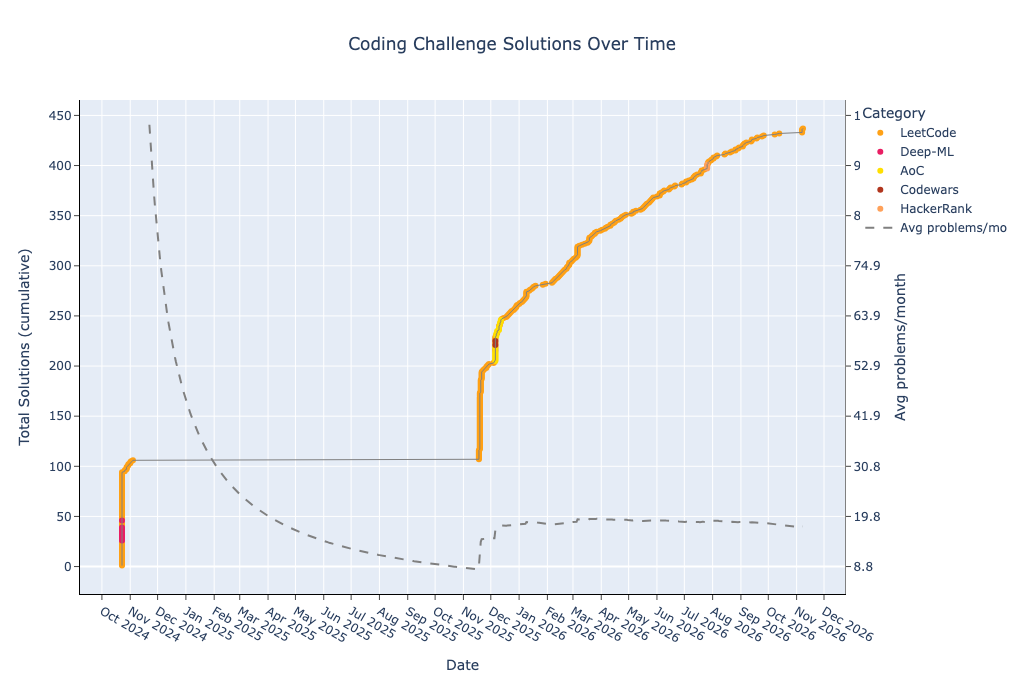
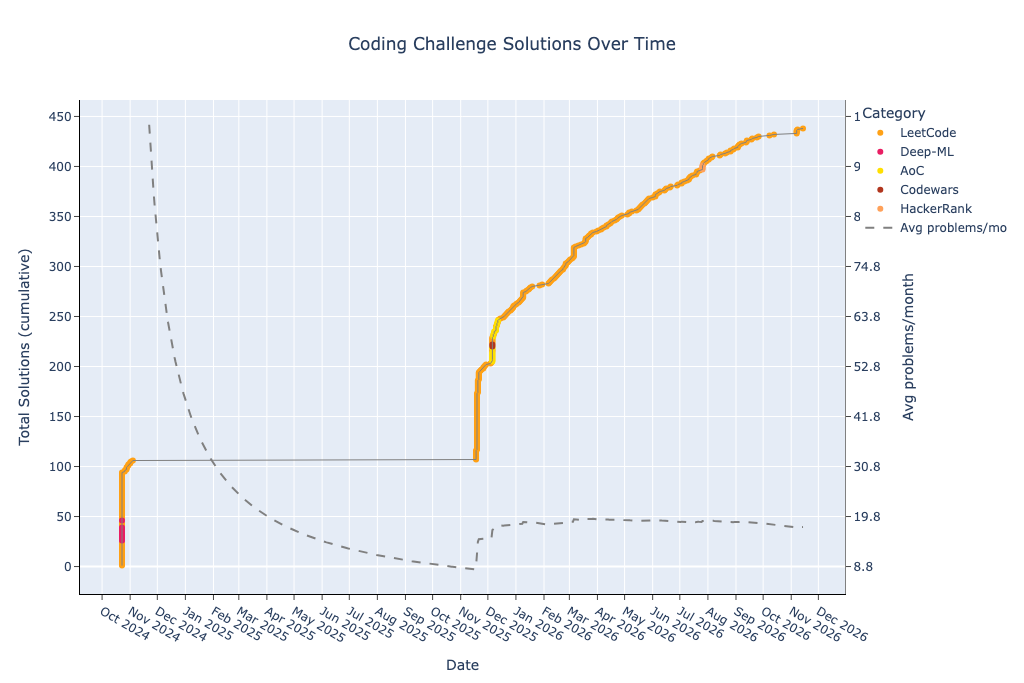
Regenerate README

diff --git a/README.md b/README.md
@@ -40,10 +40,10 @@ This repository contains a collection of coding problems solved on various platf
 | deep-ml-medium | 5 | 69 | 13 | 5 | 0 | 1 | 7 | 0 | 0 | 0 | 8 | 2 | 0 | 0 | 0 | 0 | 0 | 0 |
 | hackerrank-easy | 2 | 17 | 8 | 2 | 0 | 4 | 1 | 0 | 0 | 0 | 2 | 0 | 0 | 0 | 0 | 0 | 0 | 0 |
 | hackerrank-medium | 3 | 57 | 19 | 4 | 1 | 3 | 7 | 0 | 0 | 0 | 6 | 0 | 0 | 2 | 0 | 0 | 1 | 0 |
-| leetcode-easy | 139 | 2264 | 16 | 190 | 6 | 182 | 173 | 51 | 6 | 17 | 227 | 4 | 7 | 16 | 1 | 0 | 16 | 0 |
+| leetcode-easy | 140 | 2282 | 16 | 191 | 6 | 185 | 175 | 51 | 6 | 17 | 229 | 4 | 7 | 16 | 1 | 0 | 16 | 0 |
 | leetcode-medium | 216 | 5488 | 25 | 379 | 9 | 557 | 417 | 124 | 22 | 58 | 464 | 7 | 44 | 68 | 12 | 31 | 33 | 7 |
 | leetcode-hard | 37 | 1164 | 31 | 67 | 5 | 109 | 99 | 24 | 11 | 17 | 84 | 3 | 7 | 15 | 8 | 5 | 9 | 9 |
-| **total** | 437 | 10414 | 23 | 749 | 22 | 991 | 865 | 205 | 40 | 105 | 892 | 27 | 69 | 117 | 23 | 41 | 62 | 16 |
+| **total** | 438 | 10432 | 23 | 750 | 22 | 994 | 867 | 205 | 40 | 105 | 894 | 27 | 69 | 117 | 23 | 41 | 62 | 16 |
 
 ---
 
@@ -51,6 +51,7 @@ This repository contains a collection of coding problems solved on various platf
 
 | Date | Type | Challenge | Problem | Solution |
 | --- | --- | --- | --- | --- |
+| 2026-11-14 | LeetCode Easy | Minimum Positive Sum Subarray | [leetcode.com](https://leetcode.com/problems/minimum-positive-sum-subarray/) | [python](leetcode/easy/3364.%20Minimum%20Positive%20Sum%20Subarray.py) |
 | 2026-11-08 | LeetCode Medium | Count Servers that Communicate | [leetcode.com](https://leetcode.com/problems/count-servers-that-communicate/) | [python](leetcode/medium/1267.%20Count%20Servers%20that%20Communicate.py) |
 | 2026-11-07 | LeetCode Medium | Minimum Moves to Equal Array Elements II | [leetcode.com](https://leetcode.com/problems/minimum-moves-to-equal-array-elements-ii/) | [python](leetcode/medium/462.%20Minimum%20Moves%20to%20Equal%20Array%20Elements%20II.py) |
 | 2026-11-07 | LeetCode Medium | Count Islands With Total Value Divisible by K | [leetcode.com](https://leetcode.com/problems/count-islands-with-total-value-divisible-by-k) | [python](leetcode/medium/3619.%20Count%20Islands%20With%20Total%20Value%20Divisible%20by%20K.py) |
@@ -60,7 +61,6 @@ This repository contains a collection of coding problems solved on various platf
 | 2026-10-13 | LeetCode Medium | Maximum Alternating Sum of Squares | [leetcode.com](https://leetcode.com/problems/maximum-alternating-sum-of-squares) | [python](leetcode/medium/3727.%20Maximum%20Alternating%20Sum%20of%20Squares.py) |
 | 2026-10-08 | LeetCode Medium | Score of Parentheses | [leetcode.com](https://leetcode.com/problems/score-of-parentheses) | [python](leetcode/medium/856.%20Score%20of%20Parentheses.py) |
 | 2026-10-08 | LeetCode Medium | Score of Parentheses | [leetcode.com](https://leetcode.com/problems/score-of-parentheses) | [python](leetcode/medium/856.%20Score%20of%20Parentheses.py) |
-| 2026-09-26 | LeetCode Medium | Evaluate the Bracket Pairs of a String | [leetcode.com](https://leetcode.com/problems/evaluate-the-bracket-pairs-of-a-string/) | [python](leetcode/medium/1807.%20Evaluate%20the%20Bracket%20Pairs%20of%20a%20String.py) |
 # Advent of Code
 ### 2025
 | Day | Challenge | Time | Space | Problem | Solution |
@@ -241,6 +241,7 @@ This repository contains a collection of coding problems solved on various platf
 | 3345 | Smallest Divisible Digit Product I | O(log n) | O(log n) | [leetcode.com](https://leetcode.com/problems/smallest-divisible-digit-product-i/) | [python](leetcode/easy/3345.%20Smallest%20Divisible%20Digit%20Product%20I.py) |
 | 3349 | Adjacent Increasing Subarrays Detection I | O(n) | O(1) | [leetcode.com](https://leetcode.com/problems/adjacent-increasing-subarrays-detection-i/) | [python](leetcode/easy/3349.%20Adjacent%20Increasing%20Subarrays%20Detection%20I.py) |
 | 3354 | Make Array Elements Equal to Zero | O(n) | O(1) | [leetcode.com](https://leetcode.com/problems/make-array-elements-equal-to-zero/) | [python](leetcode/easy/3354.%20Make%20Array%20Elements%20Equal%20to%20Zero.py) |
+| 3364 | Minimum Positive Sum Subarray | O(n*m) | O(1) | [leetcode.com](https://leetcode.com/problems/minimum-positive-sum-subarray/) | [python](leetcode/easy/3364.%20Minimum%20Positive%20Sum%20Subarray.py) |
 | 3370 | Smallest Number With All Set Bits | O(n) | O(1) | [leetcode.com](https://leetcode.com/problems/smallest-number-with-all-set-bits/) | [python](leetcode/easy/3370.%20Smallest%20Number%20With%20All%20Set%20Bits.py) |
 | 3432 | Count Partitions with Even Sum Difference | O(n) | O(1) | [leetcode.com](https://leetcode.com/problems/count-partitions-with-even-sum-difference/) | [python](leetcode/easy/3432.%20Count%20Partitions%20with%20Even%20Sum%20Difference.py) |
 | 3461 | Check If Digits Are Equal in String After Operations I | O(n) | O(1) | [leetcode.com](https://leetcode.com/problems/check-if-digits-are-equal-in-string-after-operations-i/) | [python](leetcode/easy/3461.%20Check%20If%20Digits%20Are%20Equal%20in%20String%20After%20Operations%20I.py) |

diff --git a/CHANGES.md b/CHANGES.md
@@ -4,6 +4,7 @@
 
 | Date | Type | Challenge | Problem | Solution |
 | --- | --- | --- | --- | --- |
+| 2026-11-14 | LeetCode Easy | Minimum Positive Sum Subarray | [leetcode.com](https://leetcode.com/problems/minimum-positive-sum-subarray/) | [python](leetcode/easy/3364.%20Minimum%20Positive%20Sum%20Subarray.py) |
 | 2026-11-08 | LeetCode Medium | Count Servers that Communicate | [leetcode.com](https://leetcode.com/problems/count-servers-that-communicate/) | [python](leetcode/medium/1267.%20Count%20Servers%20that%20Communicate.py) |
 | 2026-11-07 | LeetCode Medium | Minimum Moves to Equal Array Elements II | [leetcode.com](https://leetcode.com/problems/minimum-moves-to-equal-array-elements-ii/) | [python](leetcode/medium/462.%20Minimum%20Moves%20to%20Equal%20Array%20Elements%20II.py) |
 | 2026-11-07 | LeetCode Medium | Count Islands With Total Value Divisible by K | [leetcode.com](https://leetcode.com/problems/count-islands-with-total-value-divisible-by-k) | [python](leetcode/medium/3619.%20Count%20Islands%20With%20Total%20Value%20Divisible%20by%20K.py) |
@@ -13,4 +14,3 @@
 | 2026-10-13 | LeetCode Medium | Maximum Alternating Sum of Squares | [leetcode.com](https://leetcode.com/problems/maximum-alternating-sum-of-squares) | [python](leetcode/medium/3727.%20Maximum%20Alternating%20Sum%20of%20Squares.py) |
 | 2026-10-08 | LeetCode Medium | Score of Parentheses | [leetcode.com](https://leetcode.com/problems/score-of-parentheses) | [python](leetcode/medium/856.%20Score%20of%20Parentheses.py) |
 | 2026-10-08 | LeetCode Medium | Score of Parentheses | [leetcode.com](https://leetcode.com/problems/score-of-parentheses) | [python](leetcode/medium/856.%20Score%20of%20Parentheses.py) |
-| 2026-09-26 | LeetCode Medium | Evaluate the Bracket Pairs of a String | [leetcode.com](https://leetcode.com/problems/evaluate-the-bracket-pairs-of-a-string/) | [python](leetcode/medium/1807.%20Evaluate%20the%20Bracket%20Pairs%20of%20a%20String.py) |
